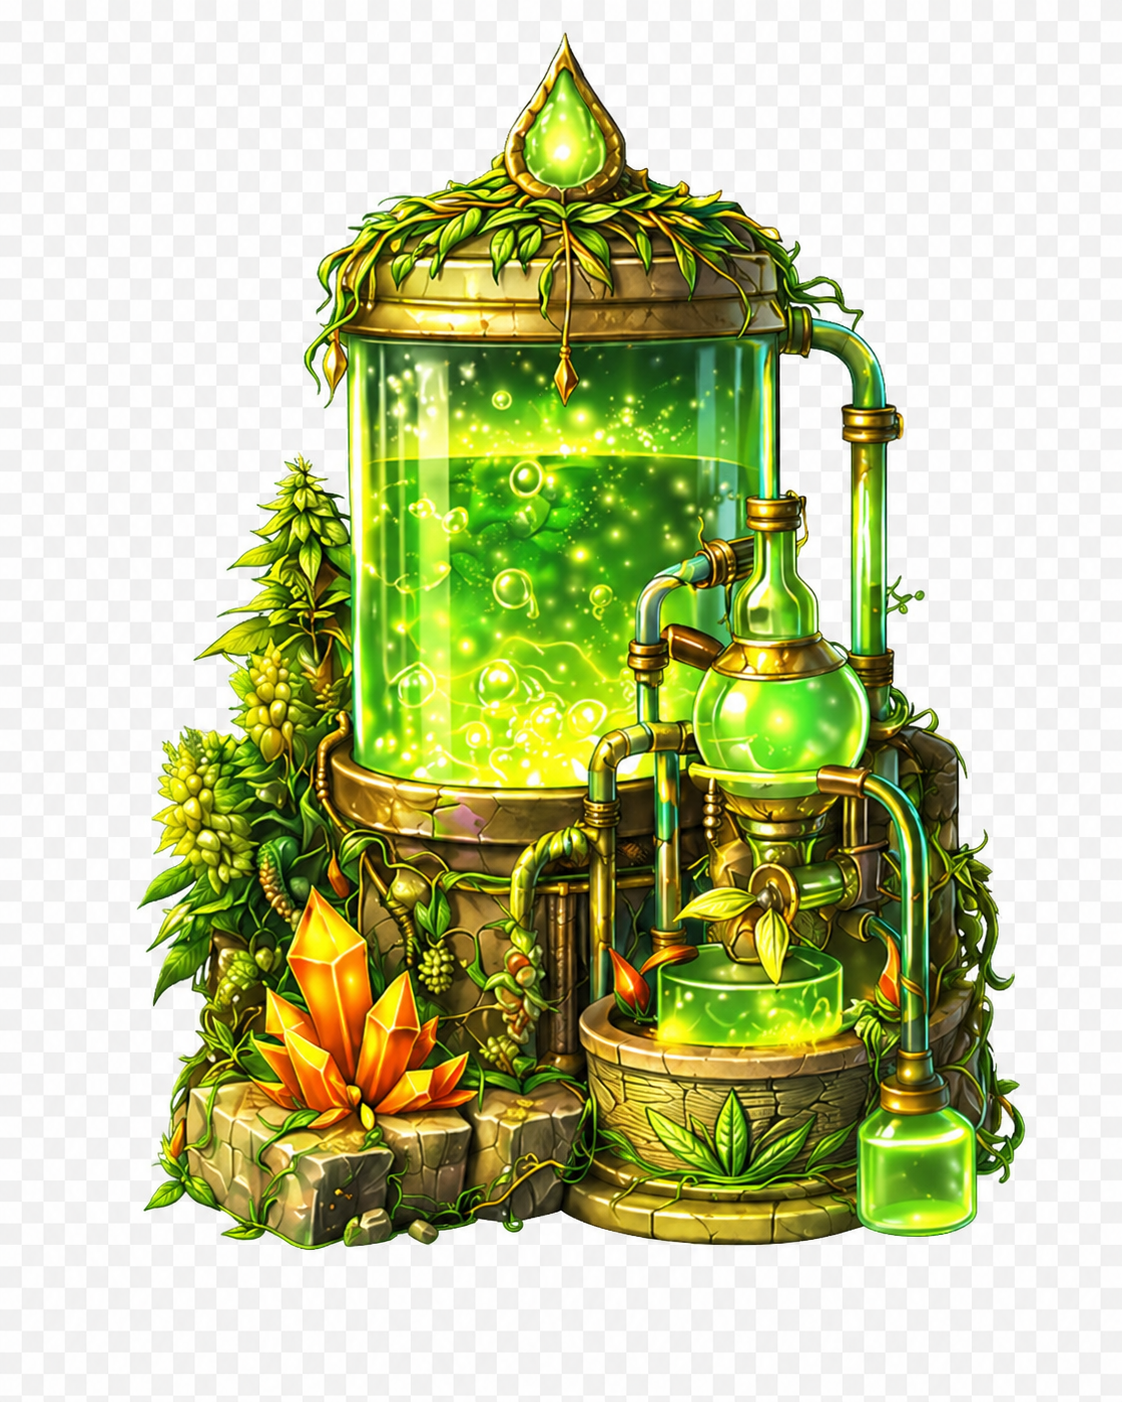
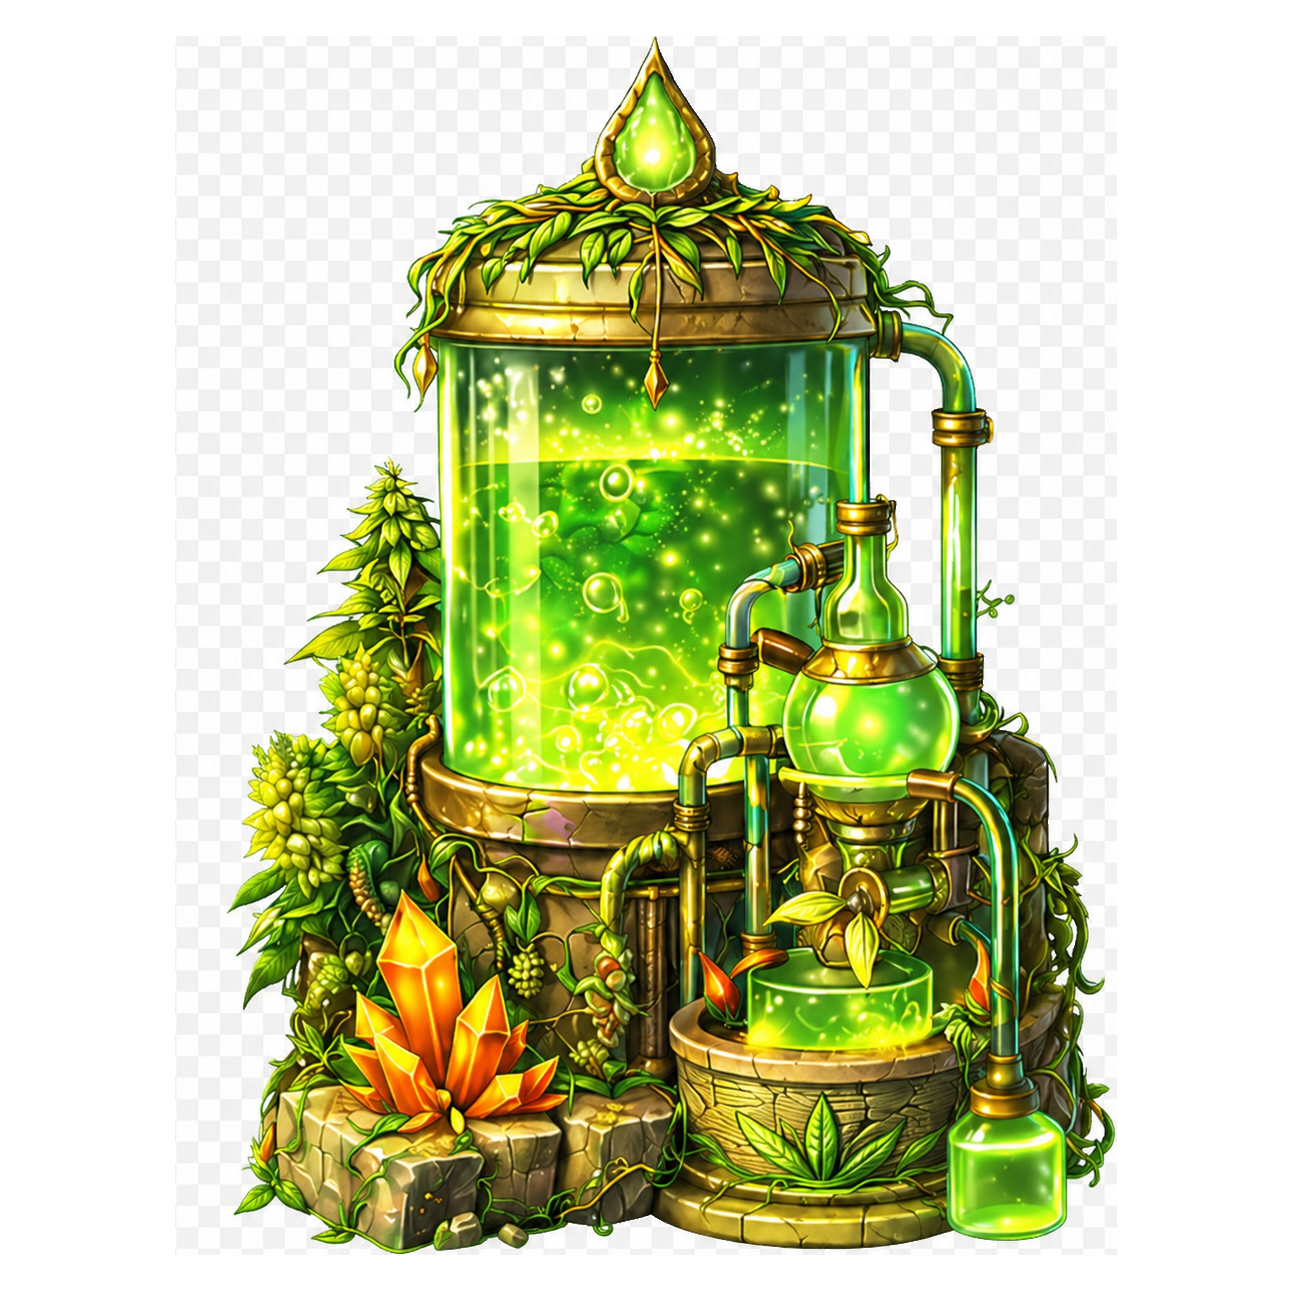
fix(sprint-2): port lock, building art rendering, grid cell alignment
Issue 1 — Port drift to 4299
- A stale next-server (v16.2.6) from the main-repo Sprint-1 dev session
  (PID 60602, started Fri May 22 18:46) was holding port 4200, forcing
  this worktree onto 4299. Killed it. Worktree's dev script unchanged
  (`next dev -p 4200`); npm run dev now binds to 4200 cleanly.

Issue 2 — "GT TBD" placeholder rendered for Grow Tent
- BuildingTile.tsx had a PlaceholderTile fallback for buildings whose
  imagePath was null (Grow Tent had imagePath: null since GDD v1.1
  marked its art "TBD"). Removed the entire PlaceholderTile component,
  the conditional fallback, and the matching "Art TBD" branch in the
  BuildMenu card. BuildingDef.imagePath is now `string` (non-null).
- Assigned `public/buildings/grow-tent.png` from spirit-shrine.png
  (sacred cannabis-leaf shrine on a stone pedestal — the closest
  thematic match in the library for a cultivation building).
- Added onError handler on both <Image> instances (BuildingTile and
  BuildMenu card) that console.error's if a building image ever 404s,
  but does NOT render placeholder text — empty cell instead.

Issue 3 — Buildings appeared off-grid / floating
- CSS Grid positioning was already correct (gridColumn/gridRow with
  spans). Root cause was non-square source PNGs:
    amber-forge.png   1536×1024  3:2 landscape
    bloom-extractor   1122×1402  4:5 portrait
    thorn-trap        340×430    4:5 portrait
  In a square 2×2 footprint with `object-contain`, each got letterboxed
[…]

diff --git a/components/game/BuildingTile.tsx b/components/game/BuildingTile.tsx
@@ -2,7 +2,7 @@
 
 import Image from "next/image";
 import { motion } from "framer-motion";
-import { BUILDINGS, type BuildingDef } from "@/lib/buildings";
+import { BUILDINGS } from "@/lib/buildings";
 import type { PlacedBuilding } from "@/lib/store";
 
 interface Props {
@@ -11,17 +11,13 @@ interface Props {
   isSelected: boolean;
 }
 
-export function BuildingTile({ building, editMode, isSelected }: Props) {
+export function BuildingTile({ building, editMode }: Props) {
   const def = BUILDINGS[building.type];
 
   return (
     <motion.div
       className="pointer-events-none relative h-full w-full"
-      animate={
-        editMode
-          ? { rotate: [-1.5, 1.5, -1.5] }
-          : { rotate: 0 }
-      }
+      animate={editMode ? { rotate: [-1.5, 1.5, -1.5] } : { rotate: 0 }}
       transition={
         editMode
           ? { duration: 0.7, repeat: Infinity, ease: "easeInOut" }
@@ -29,17 +25,20 @@ export function BuildingTile({ building, editMode, isSelected }: Props) {
       }
     >
       <div className="relative h-full w-full rounded-md">
-        {def.imagePath ? (
-          <Image
-            src={def.imagePath}
-            alt={def.name}
-            fill
-            sizes="(max-width: 768px) 80px, 140px"
-            className="object-contain p-1 drop-shadow-[0_2px_3px_rgba(0,0,0,0.6)]"
-          />
-        ) : (
-          <PlaceholderTile def={def} />
-        )}
+        <Image
+          src={def.imagePath}
+          alt={def.name}
+          fill
+          sizes="(max-width: 768px) 80px, 140px"
+          className="object-contain p-0.5 drop-shadow-[0_2px_3px_rgba(0,0,0,0.6)]"
+          onError={(e) => {
+            // Don't render a placeholder — just log so we know if a path 404s.
+            console.error(
+              `[BuildingTile] Failed to load image for ${def.name}: ${def.imagePath}`,
+              e,
+            );
+          }}
+        />
 
         <span
           className="absolute bottom-0.5 right-0.5 rounded-full border border-black/40 px-1 py-px text-[8px] font-bold leading-none text-bg-deep shadow"
@@ -49,34 +48,5 @@ export function BuildingTile({ building, editMode, isSelected }: Props) {
         </span>
       </div>
     </motion.div>
-  );
-}
-
-function PlaceholderTile({ def }: { def: BuildingDef }) {
-  const initials = def.name
-    .split(" ")
-    .map((w) => w[0])
-    .join("");
-
-  return (
-    <div
-      className="flex h-full w-full flex-col items-center justify-center rounded-md p-0.5 text-center"
-      style={{
-        background: `radial-gradient(circle at 50% 35%, ${def.color}cc, ${def.color}55 70%, ${def.color}22)`,
-      }}
-    >
-      <span
-        className="font-display text-lg font-bold leading-none tracking-wide"
-        style={{ color: "rgba(15,10,6,0.85)" }}
-      >
-        {initials}
-      </span>
-      <span
-        className="mt-0.5 text-[7px] font-medium leading-tight"
-        style={{ color: "rgba(15,10,6,0.7)" }}
-      >
-        TBD
-      </span>
-    </div>
   );
 }

diff --git a/components/game/BuildMenu.tsx b/components/game/BuildMenu.tsx
@@ -178,31 +178,20 @@ function BuildingCard({
         className="relative h-20 w-20 overflow-hidden rounded-lg"
         style={{ backgroundColor: `${def.color}1a` }}
       >
-        {def.imagePath ? (
-          <Image
-            src={def.imagePath}
-            alt={def.name}
-            fill
-            sizes="80px"
-            className="object-contain p-1"
-            draggable={false}
-          />
-        ) : (
-          <div
-            className="flex h-full w-full flex-col items-center justify-center font-display"
-            style={{ color: def.color }}
-          >
-            <span className="text-2xl font-bold tracking-wider">
-              {def.name
-                .split(" ")
-                .map((w) => w[0])
-                .join("")}
-            </span>
-            <span className="mt-0.5 text-[8px] uppercase tracking-[0.2em] opacity-70">
-              Art TBD
-            </span>
-          </div>
-        )}
+        <Image
+          src={def.imagePath}
+          alt={def.name}
+          fill
+          sizes="80px"
+          className="object-contain p-1"
+          draggable={false}
+          onError={(e) => {
+            console.error(
+              `[BuildMenu] Failed to load card image for ${def.name}: ${def.imagePath}`,
+              e,
+            );
+          }}
+        />
       </div>
 
       <div className="w-full text-center">

diff --git a/lib/buildings.ts b/lib/buildings.ts
@@ -8,7 +8,7 @@ export interface BuildingDef {
   type: BuildingType;
   name: string;
   description: string;
-  imagePath: string | null;
+  imagePath: string;
   color: string;
   /** Footprint on the grid, in cells. */
   size: { w: number; h: number };
@@ -19,7 +19,7 @@ export const BUILDINGS: Record<BuildingType, BuildingDef> = {
     type: "growTent",
     name: "Grow Tent",
     description: "Cultivates sacred cannabis. Produces Leaf at harvest.",
-    imagePath: null,
+    imagePath: "/buildings/grow-tent.png",
     color: "#7fb069",
     size: { w: 2, h: 2 },
   },
